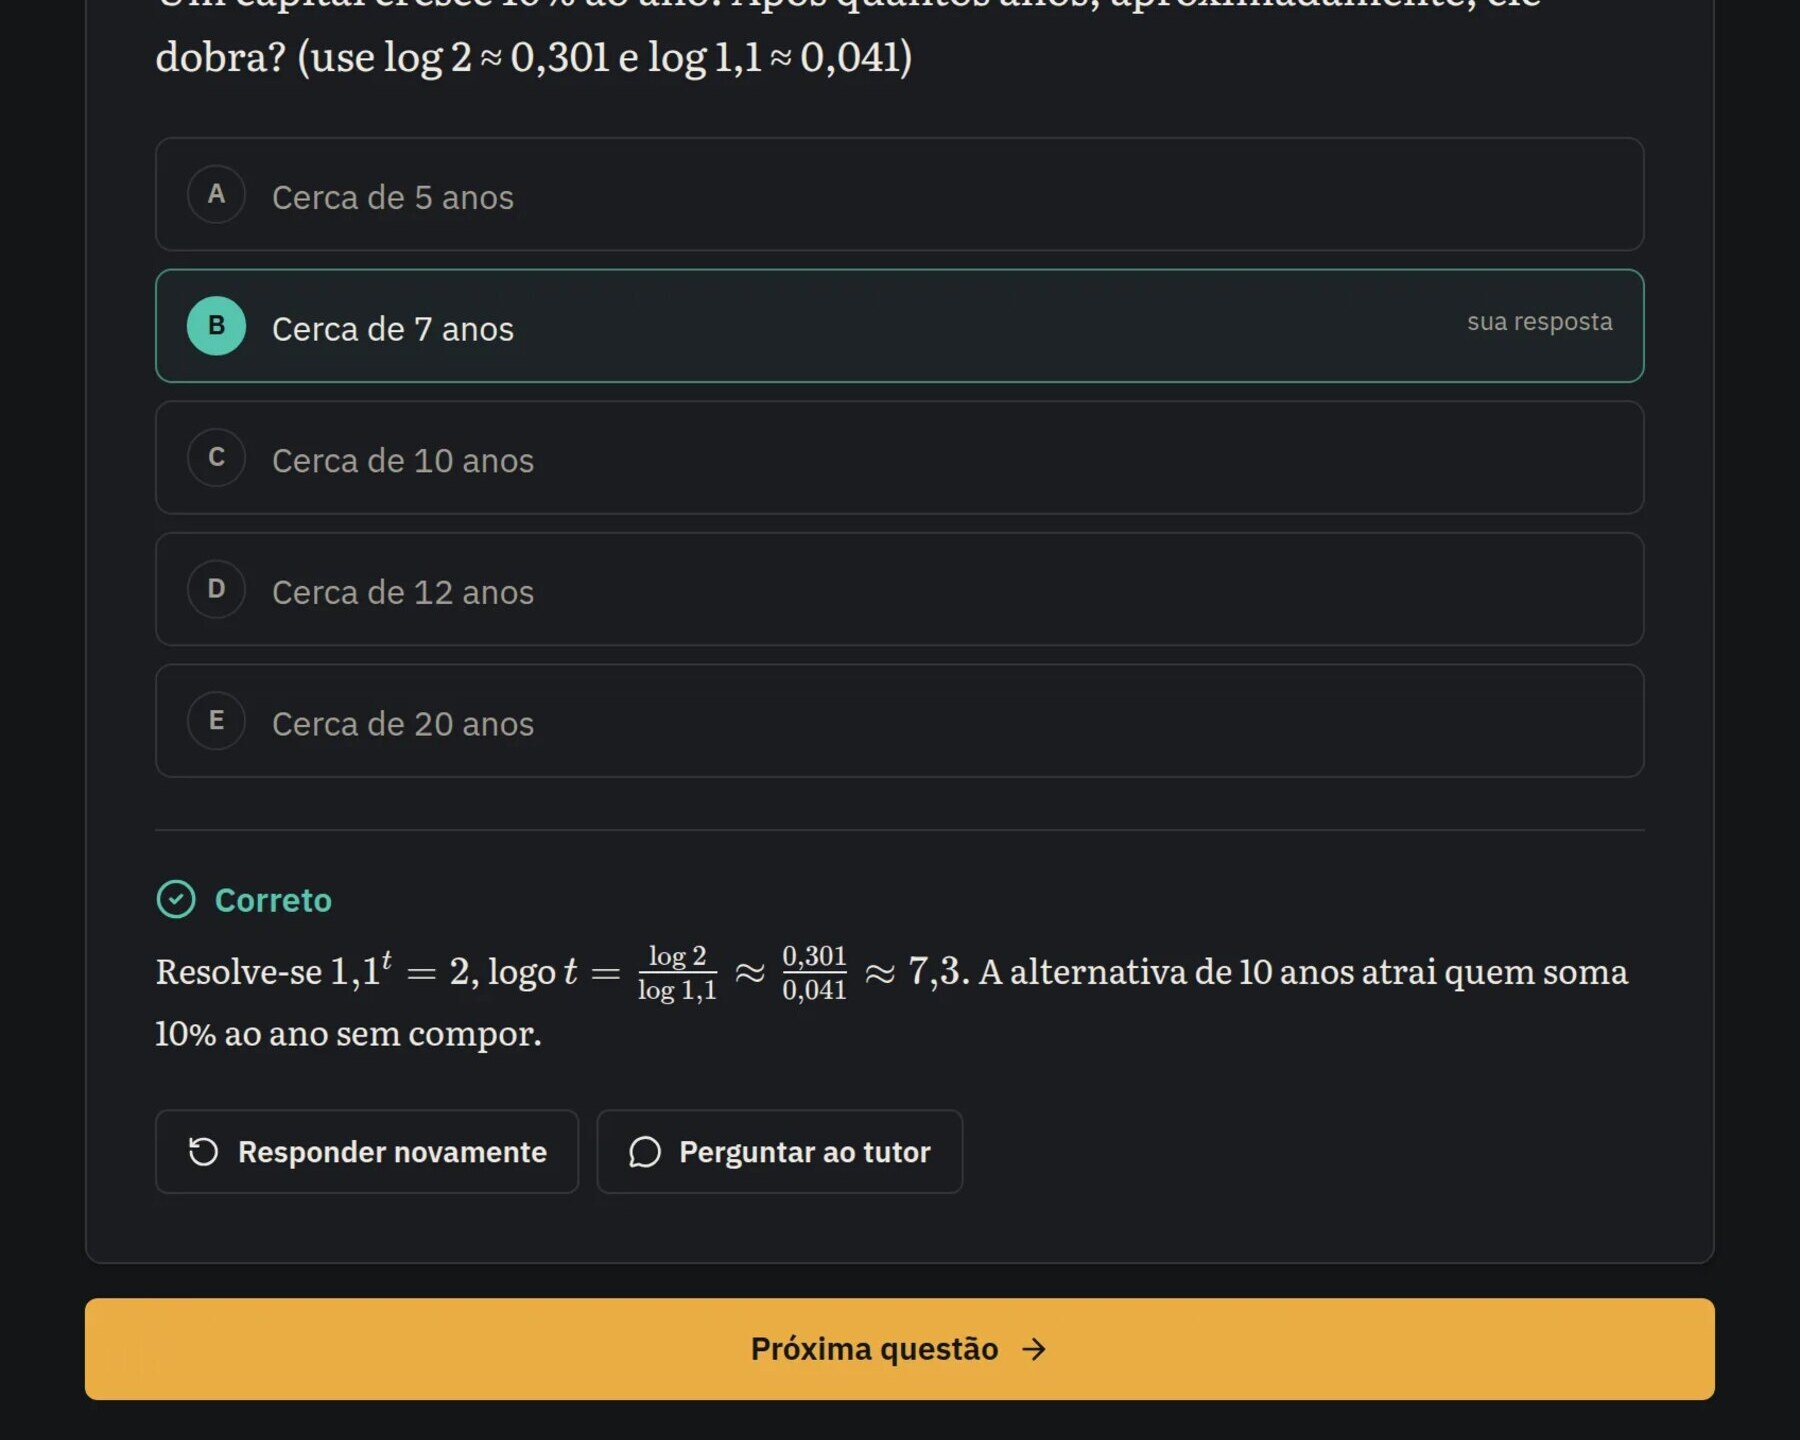
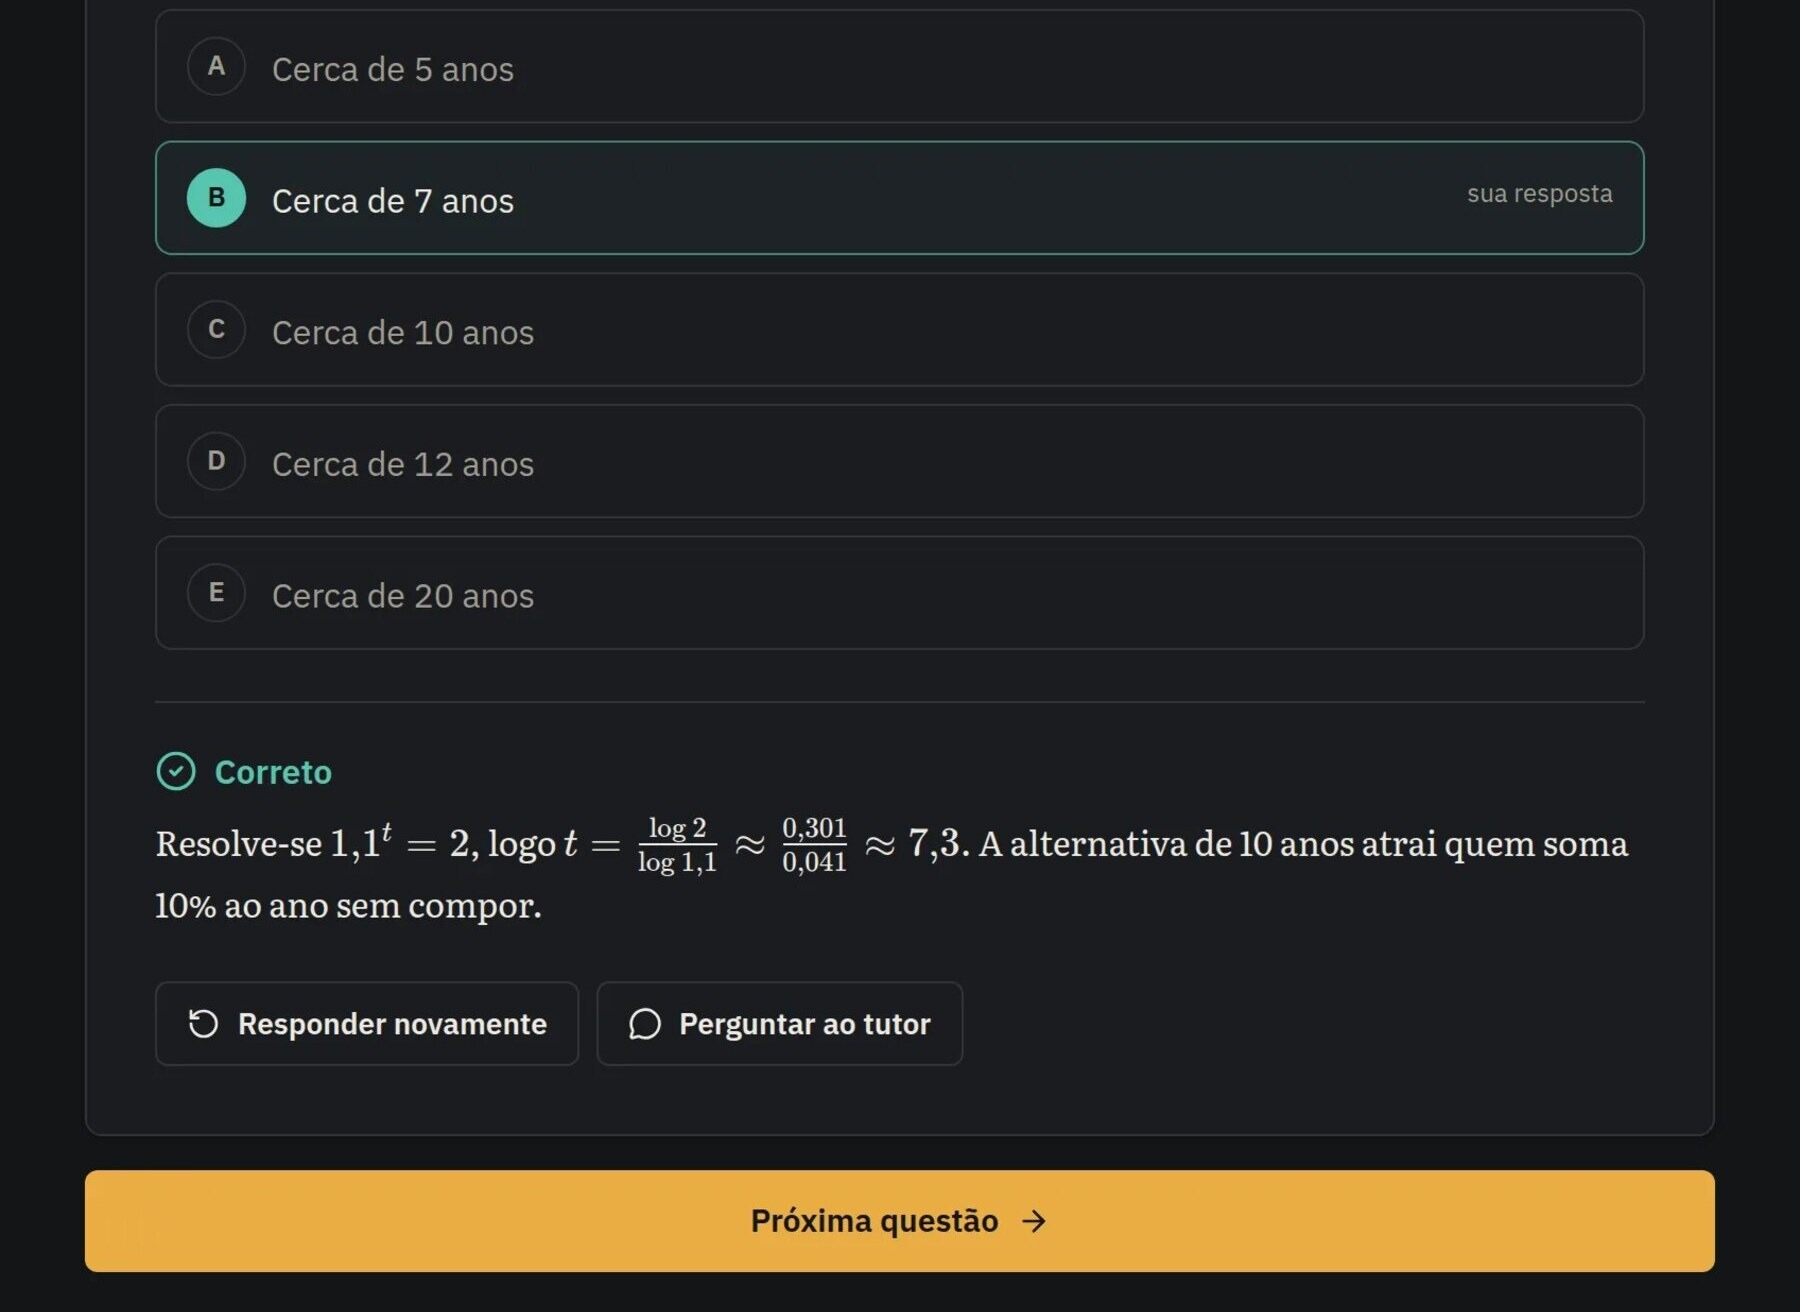
Point to the real preview URL and add portfolio contact
learnix.app is not ours; the preview runs at learnix.bulga.top while the
product is in development. Also crop the clipped line off the question
screenshot.

diff --git a/README.pt-BR.md b/README.pt-BR.md
@@ -4,7 +4,7 @@
 
 **Um tutor de IA que monta o material de estudo, guarda suas notas e cobra o que você errou.**
 
-Feito para estudantes brasileiros que se preparam para o ENEM · [Produto no ar →](https://learnix.app)
+Feito para estudantes brasileiros que se preparam para o ENEM · Em desenvolvimento · [Prévia →](https://learnix.bulga.top)
 
 [English](README.md) · [Visão do produto](docs/product.md) · [Como é construído](docs/architecture.md)
 
@@ -15,7 +15,7 @@ Feito para estudantes brasileiros que se preparam para o ENEM · [Produto no ar 
   <img alt="O espaço de estudo do Learnix: notas, tutor e editor lado a lado" src="assets/hero-light.jpg">
 </picture>
 
-> **Sobre este repositório.** O Learnix é um SaaS comercial, então o código-fonte é privado. Este repositório é a vitrine pública: o que o produto faz, como foi projetado e o que eu construí. Se quiser uma demonstração ou algo parecido feito para você, veja [Trabalhe comigo](#trabalhe-comigo).
+> **Sobre este repositório.** O Learnix é um SaaS comercial em desenvolvimento, então o código-fonte é privado. Este repositório é a vitrine pública: o que o produto faz, como foi projetado e o que eu construí. Se quiser uma demonstração ou algo parecido feito para você, veja [Trabalhe comigo](#trabalhe-comigo).
 
 ## O que faz
 
@@ -53,6 +53,8 @@ O trabalho interessante está em tornar os recursos de IA confiáveis e baratos 
 
 Construo produtos completos com foco em backend: APIs, modelagem de dados, recursos de IA com controle de custo, cobrança e uma interface cuidada.
 
+- Portfólio: [bulgaaw.com/pt](https://bulgaaw.com/pt/)
+- E-mail: [me@bulgaaw.com](mailto:me@bulgaaw.com)
 - X: [@LinkyDevv](https://x.com/LinkyDevv)
 - GitHub: [bulgadev](https://github.com/bulgadev)
 

diff --git a/README.md b/README.md
@@ -4,7 +4,7 @@
 
 **An AI tutor that builds your study material, keeps your notes, and quizzes you on what you got wrong.**
 
-Built for Brazilian students preparing for the ENEM · [Live product →](https://learnix.app)
+Built for Brazilian students preparing for the ENEM · In development · [Preview →](https://learnix.bulga.top)
 
 [Português](README.pt-BR.md) · [Product tour](docs/product.md) · [How it's built](docs/architecture.md)
 
@@ -15,7 +15,7 @@ Built for Brazilian students preparing for the ENEM · [Live product →](https:
   <img alt="The Learnix study workspace: notes, tutor chat and note editor side by side" src="assets/hero-light.jpg">
 </picture>
 
-> **About this repository.** Learnix is a commercial SaaS, so the source code is private. This repository is the public showcase: what the product does, how it is engineered, and what I built. If you'd like a walkthrough or want something similar built for you, see [Work with me](#work-with-me).
+> **About this repository.** Learnix is a commercial SaaS in active development, so the source code is private. This repository is the public showcase: what the product does, how it is engineered, and what I built. If you'd like a walkthrough or want something similar built for you, see [Work with me](#work-with-me).
 
 ## What it does
 
@@ -79,6 +79,8 @@ The interesting work is in making AI features dependable and affordable enough t
 
 I build backend-heavy products end to end: APIs, data models, AI features with sensible cost controls, billing, and a polished UI. If that sounds useful:
 
+- Portfolio: [bulgaaw.com](https://bulgaaw.com)
+- Email: [me@bulgaaw.com](mailto:me@bulgaaw.com)
 - X: [@LinkyDevv](https://x.com/LinkyDevv)
 - GitHub: [bulgadev](https://github.com/bulgadev)
 
